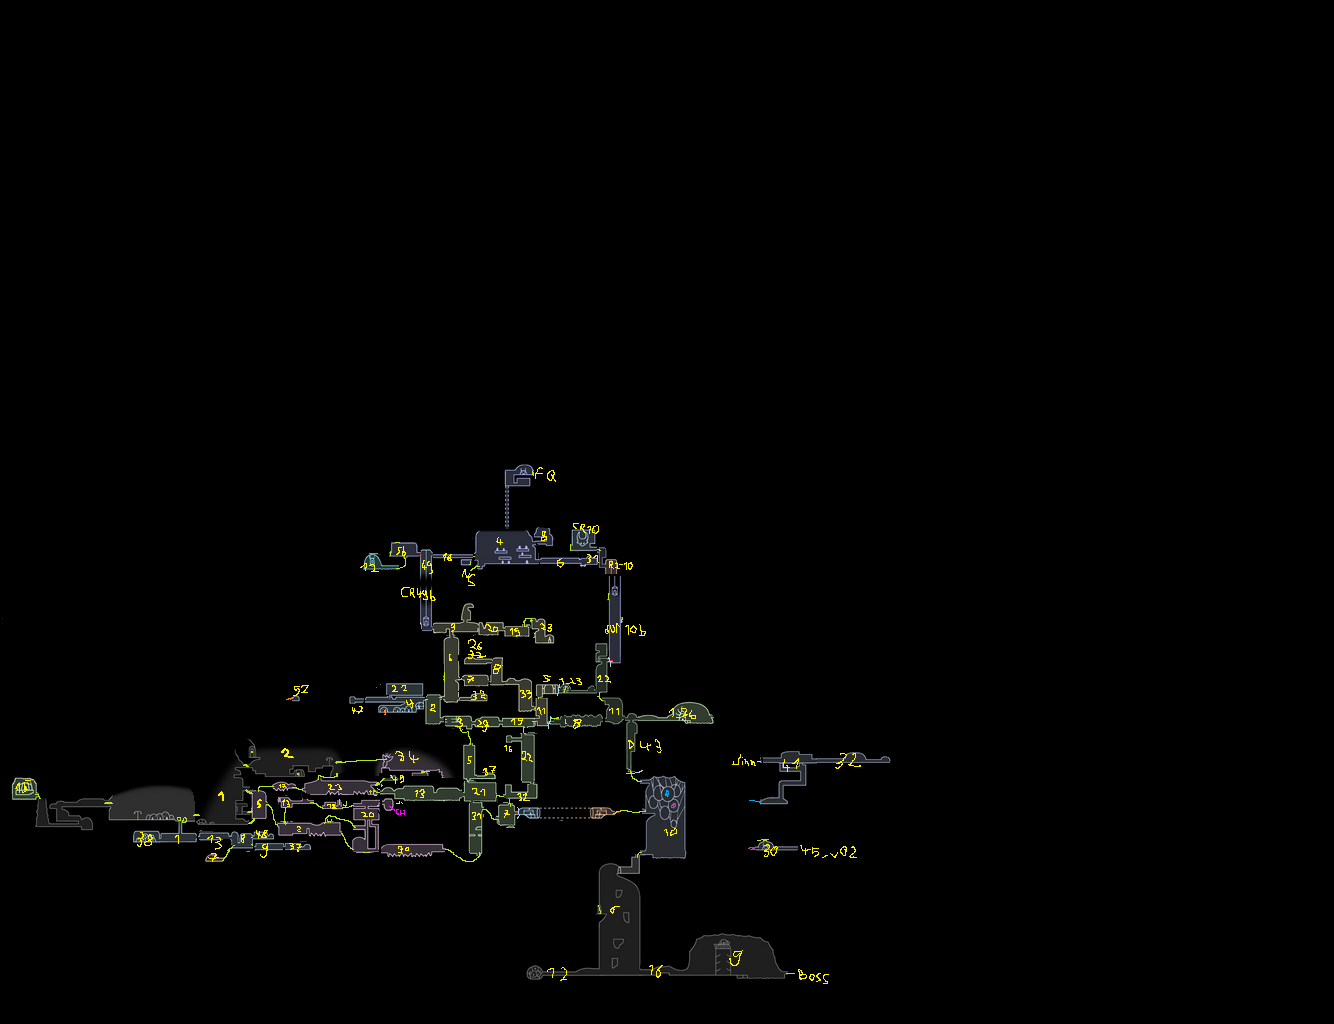
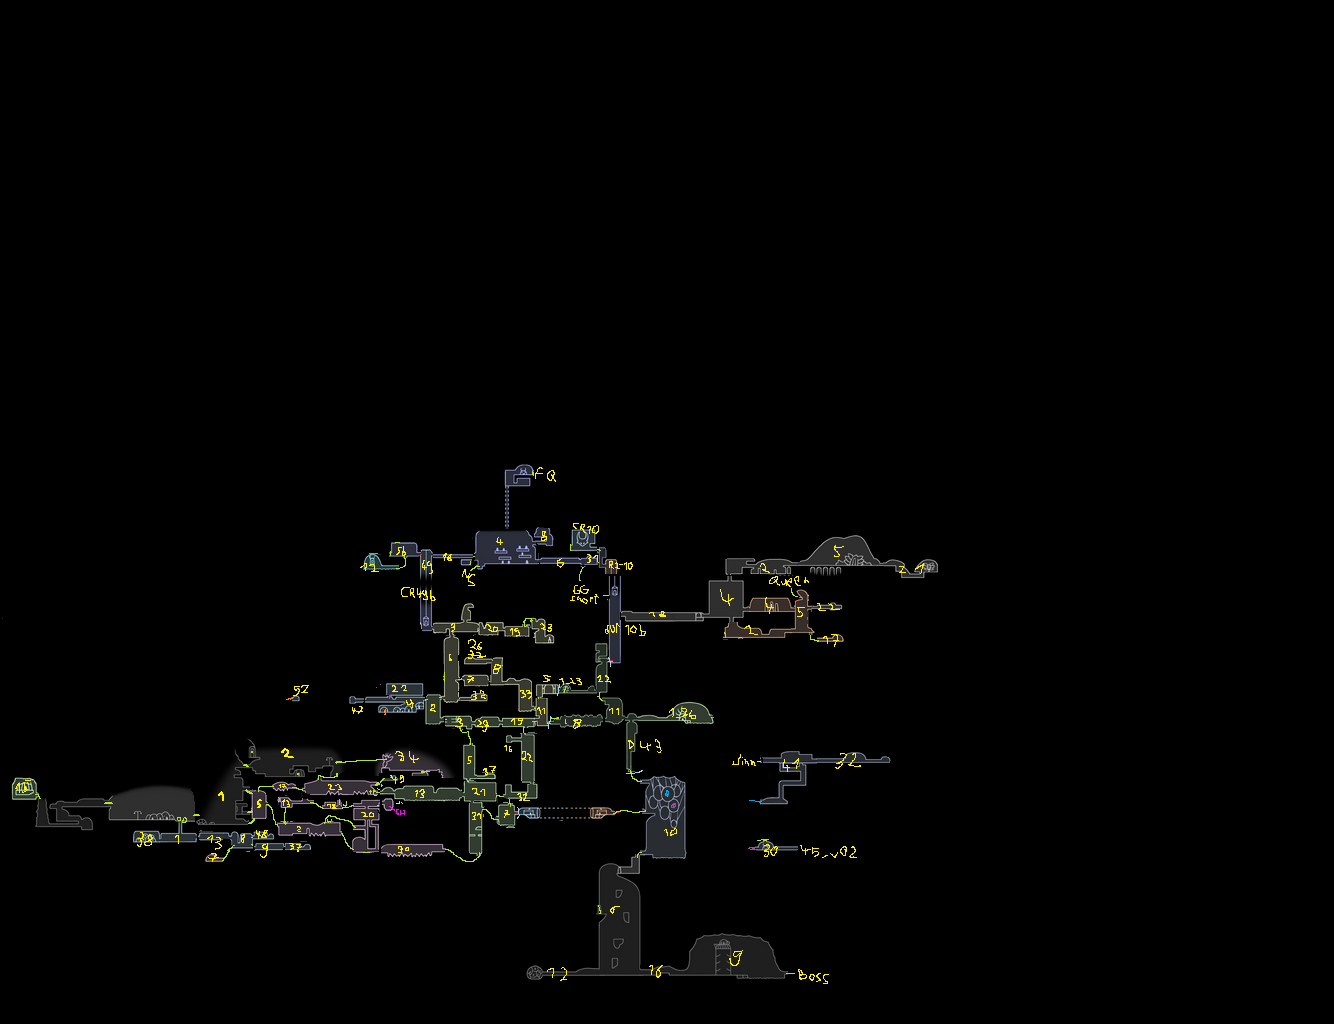
Area 6 finished

Changed region(s): [[0.461, 0.5, 0.7069, 0.625]]

diff --git a/Rooms/Area6/Area6.cs b/Rooms/Area6/Area6.cs
@@ -1,0 +1,79 @@
+using ItemChanger;
+using ItemChanger.Internal;
+using ItemChanger.UIDefs;
+using System;
+using System.Collections.Generic;
+using System.Linq;
+using System.Text;
+using System.Threading.Tasks;
+
+namespace HKSecondQuest.Rooms.Area6
+{
+    internal class Area6 : Room
+    {
+        public Area6() : base("Area 6") { }
+
+        public override void OnWorldInit()
+        {
+            SetTransition("Ruins2_10b", "left1", "Abyss_18", "left1");
+            SetTransition("Abyss_18", "right1", "Abyss_04", "left1");
+            SetTransition("Abyss_04", "bot1", "RestingGrounds_02", "top1");
+            SetTransition("RestingGrounds_02", "left1", "RestingGrounds_05", "left1");
+            SetTransition("RestingGrounds_05", "bot1", "RestingGrounds_17", "right1");
+            SetTransition("RestingGrounds_05", "right2", "Abyss_22", "left1");
+            SetTransition("RestingGrounds_05", "left2", "Room_Queen", "left1");
+            SetTransition("RestingGrounds_05", "left3", "RestingGrounds_04", "right1");
+            SetTransition("RestingGrounds_04", "left1", "Abyss_04", "right1");
+            SetTransition("Abyss_04", "top1", "Abyss_02", "bot1");
+            SetTransition("Abyss_02", "right1", "Abyss_05", "left1");
+            SetTransition("Abyss_05", "right1", "Abyss_21", "right1");
+
+            SetItem(LocationNames.Dreamshield, ItemNames.Mask_Shard);
+            SetItem(LocationNames.Hidden_Station_Stag, ItemNames.Kings_Idol);
+
+            SetItem(LocationNames.Ancient_Basin_Map, ItemNames.Hidden_Station_Stag);
+            SetItem(LocationNames.Vessel_Fragment_Basin, ItemNames.Mask_Shard);
+
+            //place Carefree Melody
+            AbstractPlacement placement = Finder.GetLocation(LocationNames.Queen_Fragment).Wrap();
+            AbstractItem aitem = new CarefreeMelodyItem();
+            aitem.UIDef = new MsgUIDef() {
+                name = new BoxedString("Carefree Melody"),
+                shopDesc = new BoxedString(""),
+                sprite = new CarefreeMelodyItem.Sprite()
+                //sprite=new BoxedSprite(SpriteManager.Instance.GetSprite("ItemChanger.Resources.Charms.40.png"))
+            };
+            placement.Add(aitem);
+            ItemChangerMod.AddPlacements(new AbstractPlacement[] { placement }, PlacementConflictResolution.Throw);
+
+            SetItem(LocationNames.Wanderers_Journal_Ancient_Basin, ItemNames.Rancid_Egg);
+            SetItem(LocationNames.Monarch_Wings, ItemNames.Awoken_Dream_Nail);
+        }
+
+        public override void OnInit()
+        {
+            ReplaceText("HIDDEN_STATION", "Palace Gardens", "StagMenu");
+            ReplaceText("HIDDEN_STATION_SUPER", "The King's");
+            ReplaceText("RESTING_GROUNDS_SUPER", "Old Palace");
+            ReplaceText("RESTING_GROUNDS_MAIN", "Graveyard");
+            ReplaceText("ABYSS_MAIN", "Gardens");
+            ReplaceText("ABYSS_SUPER", "Scorched");
+            ReplaceText("PALACE_GROUNDS_MAIN", "Ruins");
+            ReplaceText("ABYSS", "Scorched Gardens", "MapZones");
+            ReplaceText("PALACE_GROUNDS", "Palace Ruins", "MapZones");
+            ReplaceText("RESTING_GROUNDS", "Old Palace Graveyard", "MapZones");
+
+            ReplaceText("QUEEN_SUPER", "Glimmering");
+            ReplaceText("QUEEN_DUNG_02", "When I was young we used to try and sneak them into peoples back pockets, for a laugh.");
+            ReplaceText("QUEEN_DUNG", "You poor thing! Did someone sell you one of those old prank charms?");
+            ReplaceText("QUEEN_DREAM", "Will I ever leave here alive? These gardens used to bloom so beautifully. How I loathe that usurper!");
+            ReplaceText("QUEEN_MEET", "Aah, someone's there! Are you one of his men!? Please! Don't tell him! I'll give you anything I've got!");
+            ReplaceText("QUEEN_TALK_01", "So... you aren't a member of the masked army? What a relief! Thank you for finding me. I've been hiding here for weeks. Keep the charm, maybe you can help me. If you want.");
+            ReplaceText("QUEEN_TALK_02", "My husband has been locked deep below, battered and beaten, to suffer for all eternity.<page>I want you to break the seal placed on him, to end his pain forever.");
+            ReplaceText("QUEEN_TALK_EXTRA", "Killing him won't be enough... a more powerful strike will be needed to break his seal.<page>I know there are tools to enter minds. I know such a tool is hidden on these Grounds, but whether it's enough I cannot say.<page>You may need to find a way to strengthen it.");
+            ReplaceText("QUEEN_MEET_REPEAT", "Please... I beg you... Release him from his suffering.");
+
+            ReplaceText("ABYSS_GREET", "Ah, the little wanderer shows himself again! I have just finished fixing up the old station at the palace.<page>Not much of a palace anymore. Filled with fortifications, burned down and smashed to bits. But the stag network has a duty to fullfill.<page>Be careful, the station is still full of cable reels from my repairs.");
+        }
+    }
+}

diff --git a/GeneralChanges.cs b/GeneralChanges.cs
@@ -30,6 +30,7 @@ namespace HKSecondQuest
             ReplaceText("STAG_RUINS2", "Welcome traveler, to the Glimmering City! It seems to be a little worse for wear at the moment, though.<page>No wonder the stag network is so dilapitated, with all this water running in.");
             ReplaceText("STAG_CROSSROADS", "Ah, the old village on the road to the Glimmering City! Travelers often stayed here for the night, in one of the Inns.<page>Not sure how many are left, though.<page>I heard there's a little cleptomaniac bug that lives deep within the plantations. Maybe you should pay him a visit. You also seem to like collecting things.");
             ReplaceText("STAG_NEST", "This is where we stags live. Please don't wake anyone up, being a stag is hard work!", "Stag");
+            ReplaceText("STAG_HIDDEN", "Ah, the old station at the King's Palace. It does seem to be in quite bad shape, a wonder that it still works.<page>Though I doubt it will see much travel in the future.");
 
             //inventory text
             ReplaceText("INV_DESC_WHITEKEY", "A very fancy, glimmering key");
@@ -65,6 +66,7 @@ namespace HKSecondQuest
             ReplaceText("CHARM_DESC_30", "A strange medal given to you by Mothman. It might contain drugs.");
             ReplaceText("CHARM_DESC_3", "A present from an old catapillar. Probably won't change your size though.");
             ReplaceText("CHARM_DESC_31", "A very pretty medal. Could probably be sold for a good prize to a collector. If you had a mouth to barter with, that is.");
+            ReplaceText("CHARM_DESC_40_N", "A finely crafted medal, eternally giving off a faint lullaby.<br>Crafted by a mother mourning her family.");
 
             //Replace Elegy to Hallownest
             ReplaceText("PROLOGUE_EXCERPT_01", "A note to all who it may concern:");
@@ -81,6 +83,13 @@ namespace HKSecondQuest
         /// </summary>
         public static void OnSceneLoad()
         {
+
+            //fix bug when diving into direction changing transition
+            string entryGate = GameManager.instance.entryGateName;
+            if (entryGate.StartsWith("left") || entryGate.StartsWith("right")) HeroController.instance.exitedQuake = false;
+            if (entryGate.StartsWith("top") || entryGate.StartsWith("bot")) HeroController.instance.exitedSuperDashing = false;
+
+            //fix playerdata bools
             if (HeroController.instance != null)
             {
                 SetBool("crossroadsInfected", false); //uninfect crossroads
@@ -99,6 +108,8 @@ namespace HKSecondQuest
                 SetBool("corn_abyssLeft", false);
                 SetBool("corniferAtHome", false);
                 SetBool("city2_sewerDoor", true); //open Emilitia entrance
+                SetBool("bathHouseWall", true); //break wall in right city elevator
+                SetBool("gladeDoorOpened", false); //lock glade door permanently
                 //SetBool("quirrelLeftEggTemple", true); //despawn quirrel in TBE
             }
         }

diff --git a/Rooms/City/City.cs b/Rooms/City/City.cs
@@ -30,6 +30,9 @@ namespace HKSecondQuest.Rooms.City
 
             SetTransition("Ruins_Bathhouse", "right1", "Room_Mansion", "left1");
 
+            SetTransition("Ruins1_31", "bot1", "Room_GG_Shortcut", "top1");
+            SetTransition("Room_GG_Shortcut", "left1", "Ruins2_10b", "right1");
+
             SetItem(LocationNames.Flukenest, ItemNames.Desolate_Dive);
             SetItem(LocationNames.Wanderers_Journal_Pleasure_House, ItemNames.Dream_Nail);
             SetItem(LocationNames.Kings_Station_Stag, ItemNames.Geo_Rock_Default);
@@ -138,6 +141,19 @@ namespace HKSecondQuest.Rooms.City
             ReplaceText("QUIRREL_TEMPLE_4", "Strange, the masks that line the door remind me of something. But I'm not sure what.<page>I guess the art of mask making just has its common patterns. A real headscratcher.");
             ReplaceText("QUIRREL_TEMPLE_5", "There's a strange old chap in the west of the city. Says he runs a souvenir shop.<page>As we got talking, he talked about how one of his favorite fountains nearby got demolished recently.<page>Apparently the king took umbrage at the statue.<page>I wonder why?");
             ReplaceText("QUIRREL_TEMPLE_6", "They really are quite strange fellows here. Or maybe everyone but them has just left?");
+
+            //Fluke Hermit
+            ReplaceText("FLUKE_HERMIT_DREAM", "Must ... improve ... maggot crop!");
+            /*ReplaceText("FLUKE_HERMIT_PRAY"
+            ReplaceText("FLUKE_HERMIT_PRAY_REPEAT", ""); Only accesible with Flukenest*/
+            ReplaceText("FLUKE_HERMIT_MAIN", "Farmer");
+            ReplaceText("FLUKE_HERMIT_IDLE_1", "Careful! They must grow! Meat is precious!");
+            ReplaceText("FLUKE_HERMIT_IDLE_2", "They grow fast! So many hunger!");
+            ReplaceText("FLUKE_HERMIT_IDLE_3", "Riches will be mine! I will be a Hero!");
+            ReplaceText("FLUKE_HERMIT_IDLE_4", "They grow fast in theses tunnels. It will take weeks till the fungi sprout again!");
+            ReplaceText("FLUKE_HERMIT_IDLE_5", "Till then, I'm the only one...");
+            ReplaceText("FLUKE_HERMIT_PEERING", "");
+            ReplaceText("FLUKE_HERMIT_PEERING_DREAM", "So much money! I'll finally buy that little house in Ditrmouth! Far away from this!");
         }
     }
 }

diff --git a/CarefreeMelodyItem.cs b/CarefreeMelodyItem.cs
@@ -1,0 +1,39 @@
+using System;
+using System.Collections.Generic;
+using System.Linq;
+using System.Text;
+using System.Threading.Tasks;
+using ItemChanger;
+using ItemChanger.Items;
+using UnityEngine;
+
+namespace HKSecondQuest
+{
+    internal class CarefreeMelodyItem : ItemChanger.Items.CharmItem
+    {
+        public class Sprite : ISprite
+        {
+            public UnityEngine.Sprite Value
+            {
+                get { return CharmIconList.Instance.nymmCharm; }
+            }
+
+            public ISprite Clone()
+            {
+                return new Sprite();
+            }
+        }
+        public CarefreeMelodyItem()
+        {
+            charmNum = 40;
+        }
+
+        public override void GiveImmediate(GiveInfo info)
+        {
+            base.GiveImmediate(info);
+            PlayerData.instance.charmCost_40 = 3;
+            PlayerData.instance.grimmChildLevel = 5;
+            GameObject.Find("Queen").LocateMyFSM("Conversation Control").SendEvent("GET ITEM MSG END"); //to make queen fsm advance
+        }
+    }
+}

diff --git a/Rooms/Area2/Area2.cs b/Rooms/Area2/Area2.cs
@@ -20,7 +20,7 @@ namespace HKSecondQuest.Rooms.Area2
             ReplaceText("GREEN_TABLET_03", "Looking for gardener<br>Must be of reputable standing, and experienced with murdering shrubbery.<br><br>Pay 30 geo per hour");
             ReplaceText("GREEN_TABLET_05", "Visit Unn's flower shop, now!<br>Discounts on all flesh eating plants!<br>Take two, get two for free!");
             ReplaceText("GREEN_TABLET_07", "Keep off the pasture. It's full of durandoo dung.");
-            ReplaceText("GREEN_TABLET_02", "Elderly mossnight seeks Vengefly<page>Bush trimming experience required<page>Paid in exposure");
+            ReplaceText("GREEN_TABLET_02", "Elderly mossknight seeks Vengefly<page>Bush trimming experience required<page>Paid in exposure");
 
 
             ReplaceText("GREENPATH_MAIN", "Overgrown");

diff --git a/Rooms/City/City2_10b.cs b/Rooms/City/City2_10b.cs
@@ -13,8 +13,12 @@ namespace HKSecondQuest.Rooms.City
 
         public override void OnLoad()
         {
-            PlaceGO(Prefabs.LARGE_PLATFORM.Object, 28, 138, Quaternion.Euler(0, 0, 90));
-            PlaceGO(Prefabs.LARGE_PLATFORM.Object, 28, 140, Quaternion.Euler(0, 0, 90));
+            /*PlaceGO(Prefabs.LARGE_PLATFORM.Object, 28, 138, Quaternion.Euler(0, 0, 90));
+            PlaceGO(Prefabs.LARGE_PLATFORM.Object, 28, 140, Quaternion.Euler(0, 0, 90));*/
+
+            PlaceGO(Prefabs.LARGE_PLATFORM.Object, 5, 91);
+            PlaceGO(Prefabs.LARGE_PLATFORM.Object, 15, 93);
+            PlaceGO(Prefabs.LARGE_PLATFORM.Object, 25, 91);
         }
     }
 }

diff --git a/Rooms/Village1/Village1.cs b/Rooms/Village1/Village1.cs
@@ -164,6 +164,8 @@ namespace HKSecondQuest.Rooms.Village1
             SetItem(LocationNames.Seer, ItemNames.Dream_Wielder, true, essenceCost: 300, destroySeerRewards: true);
             SetItem(LocationNames.Seer, ItemNames.Kings_Idol, true, essenceCost: 500, destroySeerRewards: true);
             SetItem(LocationNames.Seer, ItemNames.Dream_Gate, true, essenceCost: 600, destroySeerRewards: true);
+            SetItem(LocationNames.Seer, ItemNames.Arcane_Egg, true, essenceCost: 700, destroySeerRewards: true);
+
         }
     }
 }

diff --git a/Rooms/Area6/RestingGrounds2.cs b/Rooms/Area6/RestingGrounds2.cs
@@ -1,0 +1,18 @@
+using System;
+using System.Collections.Generic;
+using System.Linq;
+using System.Text;
+using System.Threading.Tasks;
+using UnityEngine;
+
+namespace HKSecondQuest.Rooms.Area6
+{
+    internal class RestingGrounds2 : Room
+    {
+        public RestingGrounds2() : base("RestingGrounds_02") { IsFlipped = true; }
+        public override void OnLoad()
+        {
+            PlaceGO(Prefabs.LARGE_PLATFORM.Object, 127, 6, Quaternion.Euler(0, 0, 90));
+        }
+    }
+}

diff --git a/Rooms/Area6/Queen.cs b/Rooms/Area6/Queen.cs
@@ -1,0 +1,21 @@
+using System;
+using System.Collections.Generic;
+using System.Linq;
+using System.Text;
+using System.Threading.Tasks;
+using UnityEngine;
+
+namespace HKSecondQuest.Rooms.Area6
+{
+    internal class Queen : Room
+    {
+        public Queen() : base("Room_Queen") { 
+            IsFlipped = true;
+        }
+
+        public override void OnLoad()
+        {
+            GameObject.Find("Queen Item").transform.SetScaleX(-1); 
+        }
+    }
+}

diff --git a/Rooms/Area6/RestingGrounds4.cs b/Rooms/Area6/RestingGrounds4.cs
@@ -1,0 +1,18 @@
+using System;
+using System.Collections.Generic;
+using System.Linq;
+using System.Text;
+using System.Threading.Tasks;
+
+namespace HKSecondQuest.Rooms.Area6
+{
+    internal class RestingGrounds4 : Room
+    {
+        public RestingGrounds4() : base("RestingGrounds_04") { }
+        public override void OnLoad()
+        {
+            DestroyGO("Binding Shield Activate");
+            DestroyGO("Dreamer Plaque Inspect");
+        }
+    }
+}

diff --git a/Rooms/Area6/Abyss4.cs b/Rooms/Area6/Abyss4.cs
@@ -1,0 +1,18 @@
+using System;
+using System.Collections.Generic;
+using System.Linq;
+using System.Text;
+using System.Threading.Tasks;
+using UnityEngine;
+
+namespace HKSecondQuest.Rooms.Area6
+{
+    internal class Abyss4 : Room
+    {
+        public Abyss4() : base("Abyss_04") { }
+        public override void OnLoad()
+        {
+            PlaceGO(Prefabs.LARGE_PLATFORM.Object, 55, 9.5f, Quaternion.Euler(0, 0, 90));
+        }
+    }
+}

diff --git a/Rooms/Area6/RestingGrounds17.cs b/Rooms/Area6/RestingGrounds17.cs
@@ -1,0 +1,18 @@
+using System;
+using System.Collections.Generic;
+using System.Linq;
+using System.Text;
+using System.Threading.Tasks;
+
+namespace HKSecondQuest.Rooms.Area6
+{
+    internal class RestingGrounds17 : Room
+    {
+        public RestingGrounds17() : base("RestingGrounds_17") { IsFlipped = true; }
+
+        public override void OnBeforeLoad()
+        {
+            
+        }
+    }
+}
